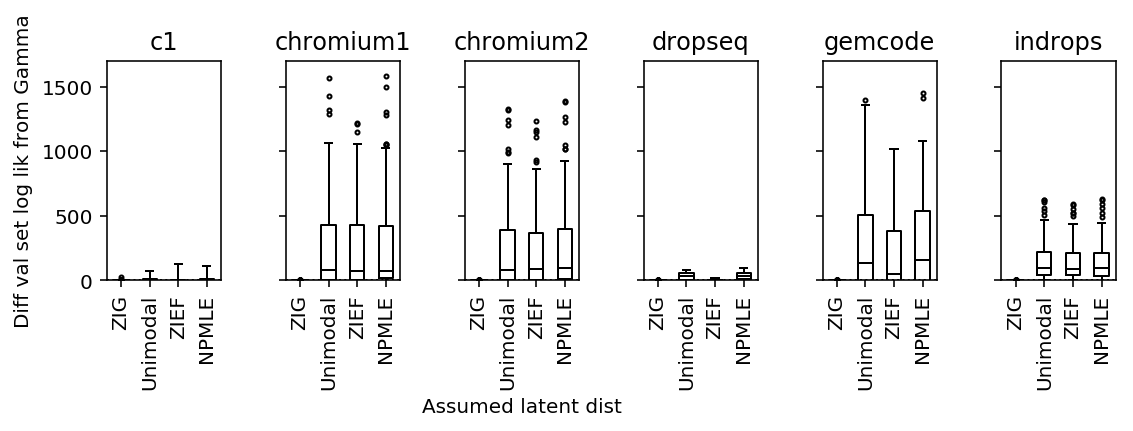
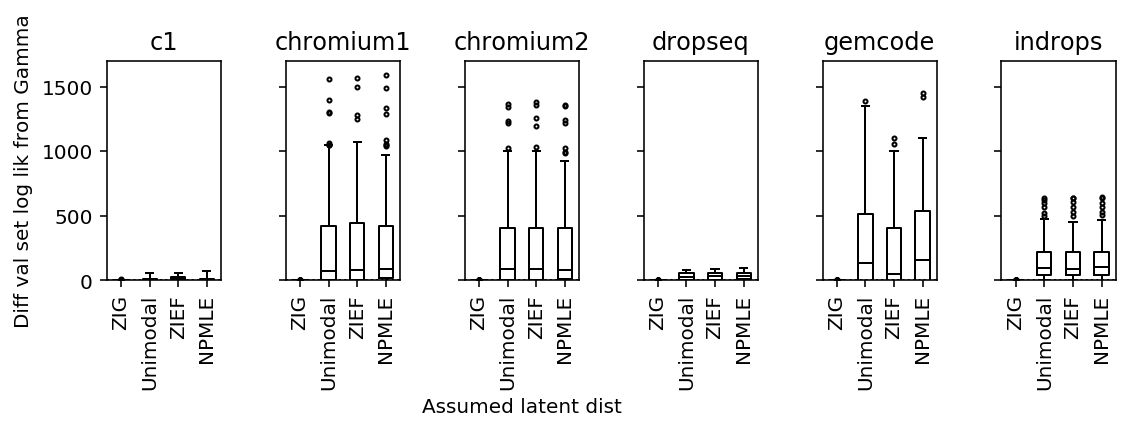
Rerun control benchmark

diff --git a/docs/deconvolution.html b/docs/deconvolution.html
@@ -1,7 +1,7 @@
 <!DOCTYPE html>
 <html lang="en">
 <head>
-<!-- 2019-05-13 Mon 17:57 -->
+<!-- 2019-05-14 Tue 16:44 -->
 <meta charset="utf-8">
 <meta name="viewport" content="width=device-width, initial-scale=1">
 <title>Comparison of expression deconvolution approaches</title>
@@ -884,9 +884,9 @@ individuals.
 </div>
 </div>
 
-<div id="outline-container-orga90a32b" class="outline-4">
-<h4 id="orga90a32b">Run the benchmark</h4>
-<div class="outline-text-4" id="text-orga90a32b">
+<div id="outline-container-org88cfe5e" class="outline-4">
+<h4 id="org88cfe5e">Run the benchmark</h4>
+<div class="outline-text-4" id="text-org88cfe5e">
 <div class="org-src-container">
 <pre class="src src-ipython" id="orgab7cb06">&lt;&lt;imports&gt;&gt;
 <span class="org-keyword">import</span> os
@@ -902,7 +902,7 @@ individuals.
 </div>
 
 <div class="org-src-container">
-<pre class="src src-sh">sbatch -a 6,16 --partition=broadwl -n1 -c28 --exclusive --time=6:00:00 --mem=16G --job-name=deconv-generalization --out=benchmark-cpu.out
+<pre class="src src-sh">sbatch -a 0-17 --partition=broadwl -n1 -c28 --exclusive --time=6:00:00 --mem=16G --job-name=deconv-generalization --out=benchmark-cpu.out
 <span class="org-comment-delimiter">#</span><span class="org-comment">!/bin/bash</span>
 <span class="org-builtin">source</span> activate scmodes
 python &lt;&lt;EOF
@@ -1231,8 +1231,8 @@ fig.tight_layout()
 <h3 id="homogeneous-results"><a id="org3e95935"></a>Homogeneous cell populations</h3>
 <div class="outline-text-3" id="text-homogeneous-results">
 </div>
-<div id="outline-container-org7e17dac" class="outline-4">
-<h4 id="homogeneous-results"><a id="org7e17dac"></a>Run the benchmark</h4>
+<div id="outline-container-orgb53a78f" class="outline-4">
+<h4 id="homogeneous-results"><a id="orgb53a78f"></a>Run the benchmark</h4>
 <div class="outline-text-4" id="text-homogeneous-results">
 <p>
 Run the benchmark.
@@ -1260,7 +1260,7 @@ Run the benchmark.
 </div>
 
 <div class="org-src-container">
-<pre class="src src-sh">sbatch --partition=broadwl --mem=32G -a 6-8 -n1 -c28 --exclusive --time=12:00:00 --job-name=benchmark --output=benchmark-cpu.out
+<pre class="src src-sh">sbatch --partition=broadwl --mem=32G -a 0-8 -n1 -c28 --exclusive --time=12:00:00 --job-name=benchmark --output=benchmark-cpu.out
 <span class="org-comment-delimiter">#</span><span class="org-comment">!/bin/bash</span>
 <span class="org-builtin">source</span> activate scmodes
 python &lt;&lt;EOF
@@ -2267,9 +2267,9 @@ Text(0, 0.5, 'Number of cells')
 <h3 id="heterogeneous"><a id="org277d861"></a>Heterogeneous cell populations</h3>
 <div class="outline-text-3" id="text-heterogeneous">
 </div>
-<div id="outline-container-org12213e2" class="outline-4">
-<h4 id="org12213e2">Run the benchmark</h4>
-<div class="outline-text-4" id="text-org12213e2">
+<div id="outline-container-org8200317" class="outline-4">
+<h4 id="org8200317">Run the benchmark</h4>
+<div class="outline-text-4" id="text-org8200317">
 <div class="org-src-container">
 <pre class="src src-ipython" id="org3d7c874"><span class="org-variable-name">data</span> = {
   <span class="org-string">'pbmcs_68k'</span>: <span class="org-keyword">lambda</span>: scmodes.dataset.read_10x(<span class="org-string">'/project2/mstephens/aksarkar/projects/singlecell-ideas/data/10xgenomics/fresh_68k_pbmc_donor_a/filtered_matrices_mex/hg19'</span>, return_df=<span class="org-constant">True</span>),
@@ -2592,7 +2592,7 @@ fig.tight_layout()
 </div>
 <div id="postamble" class="status">
 <p class="author">Author: Abhishek Sarkar</p>
-<p class="date">Created: 2019-05-13 Mon 17:57</p>
+<p class="date">Created: 2019-05-14 Tue 16:44</p>
 <p class="validation"><a href="http://validator.w3.org/check?uri=referer">Validate</a></p>
 </div>
 </body>

diff --git a/docs/validation.html b/docs/validation.html
@@ -1,7 +1,7 @@
 <!DOCTYPE html>
 <html lang="en">
 <head>
-<!-- 2019-05-14 Tue 15:09 -->
+<!-- 2019-05-14 Tue 16:44 -->
 <meta charset="utf-8">
 <meta name="viewport" content="width=device-width, initial-scale=1">
 <title>Validation set log likelihood comparison</title>
@@ -506,7 +506,7 @@ fig.tight_layout()
 </div>
 <div id="postamble" class="status">
 <p class="author">Author: Abhishek Sarkar</p>
-<p class="date">Created: 2019-05-14 Tue 15:09</p>
+<p class="date">Created: 2019-05-14 Tue 16:44</p>
 <p class="validation"><a href="http://validator.w3.org/check?uri=referer">Validate</a></p>
 </div>
 </body>

diff --git a/docs/index.html b/docs/index.html
@@ -1,7 +1,7 @@
 <!DOCTYPE html>
 <html lang="en">
 <head>
-<!-- 2019-05-14 Tue 15:02 -->
+<!-- 2019-05-14 Tue 16:44 -->
 <meta charset="utf-8">
 <meta name="viewport" content="width=device-width, initial-scale=1">
 <title>Modeling single cell data</title>
@@ -263,7 +263,7 @@ Technical details:
 </div>
 <div id="postamble" class="status">
 <p class="author">Author: Abhishek Sarkar</p>
-<p class="date">Created: 2019-05-14 Tue 15:02</p>
+<p class="date">Created: 2019-05-14 Tue 16:44</p>
 <p class="validation"><a href="http://validator.w3.org/check?uri=referer">Validate</a></p>
 </div>
 </body>
